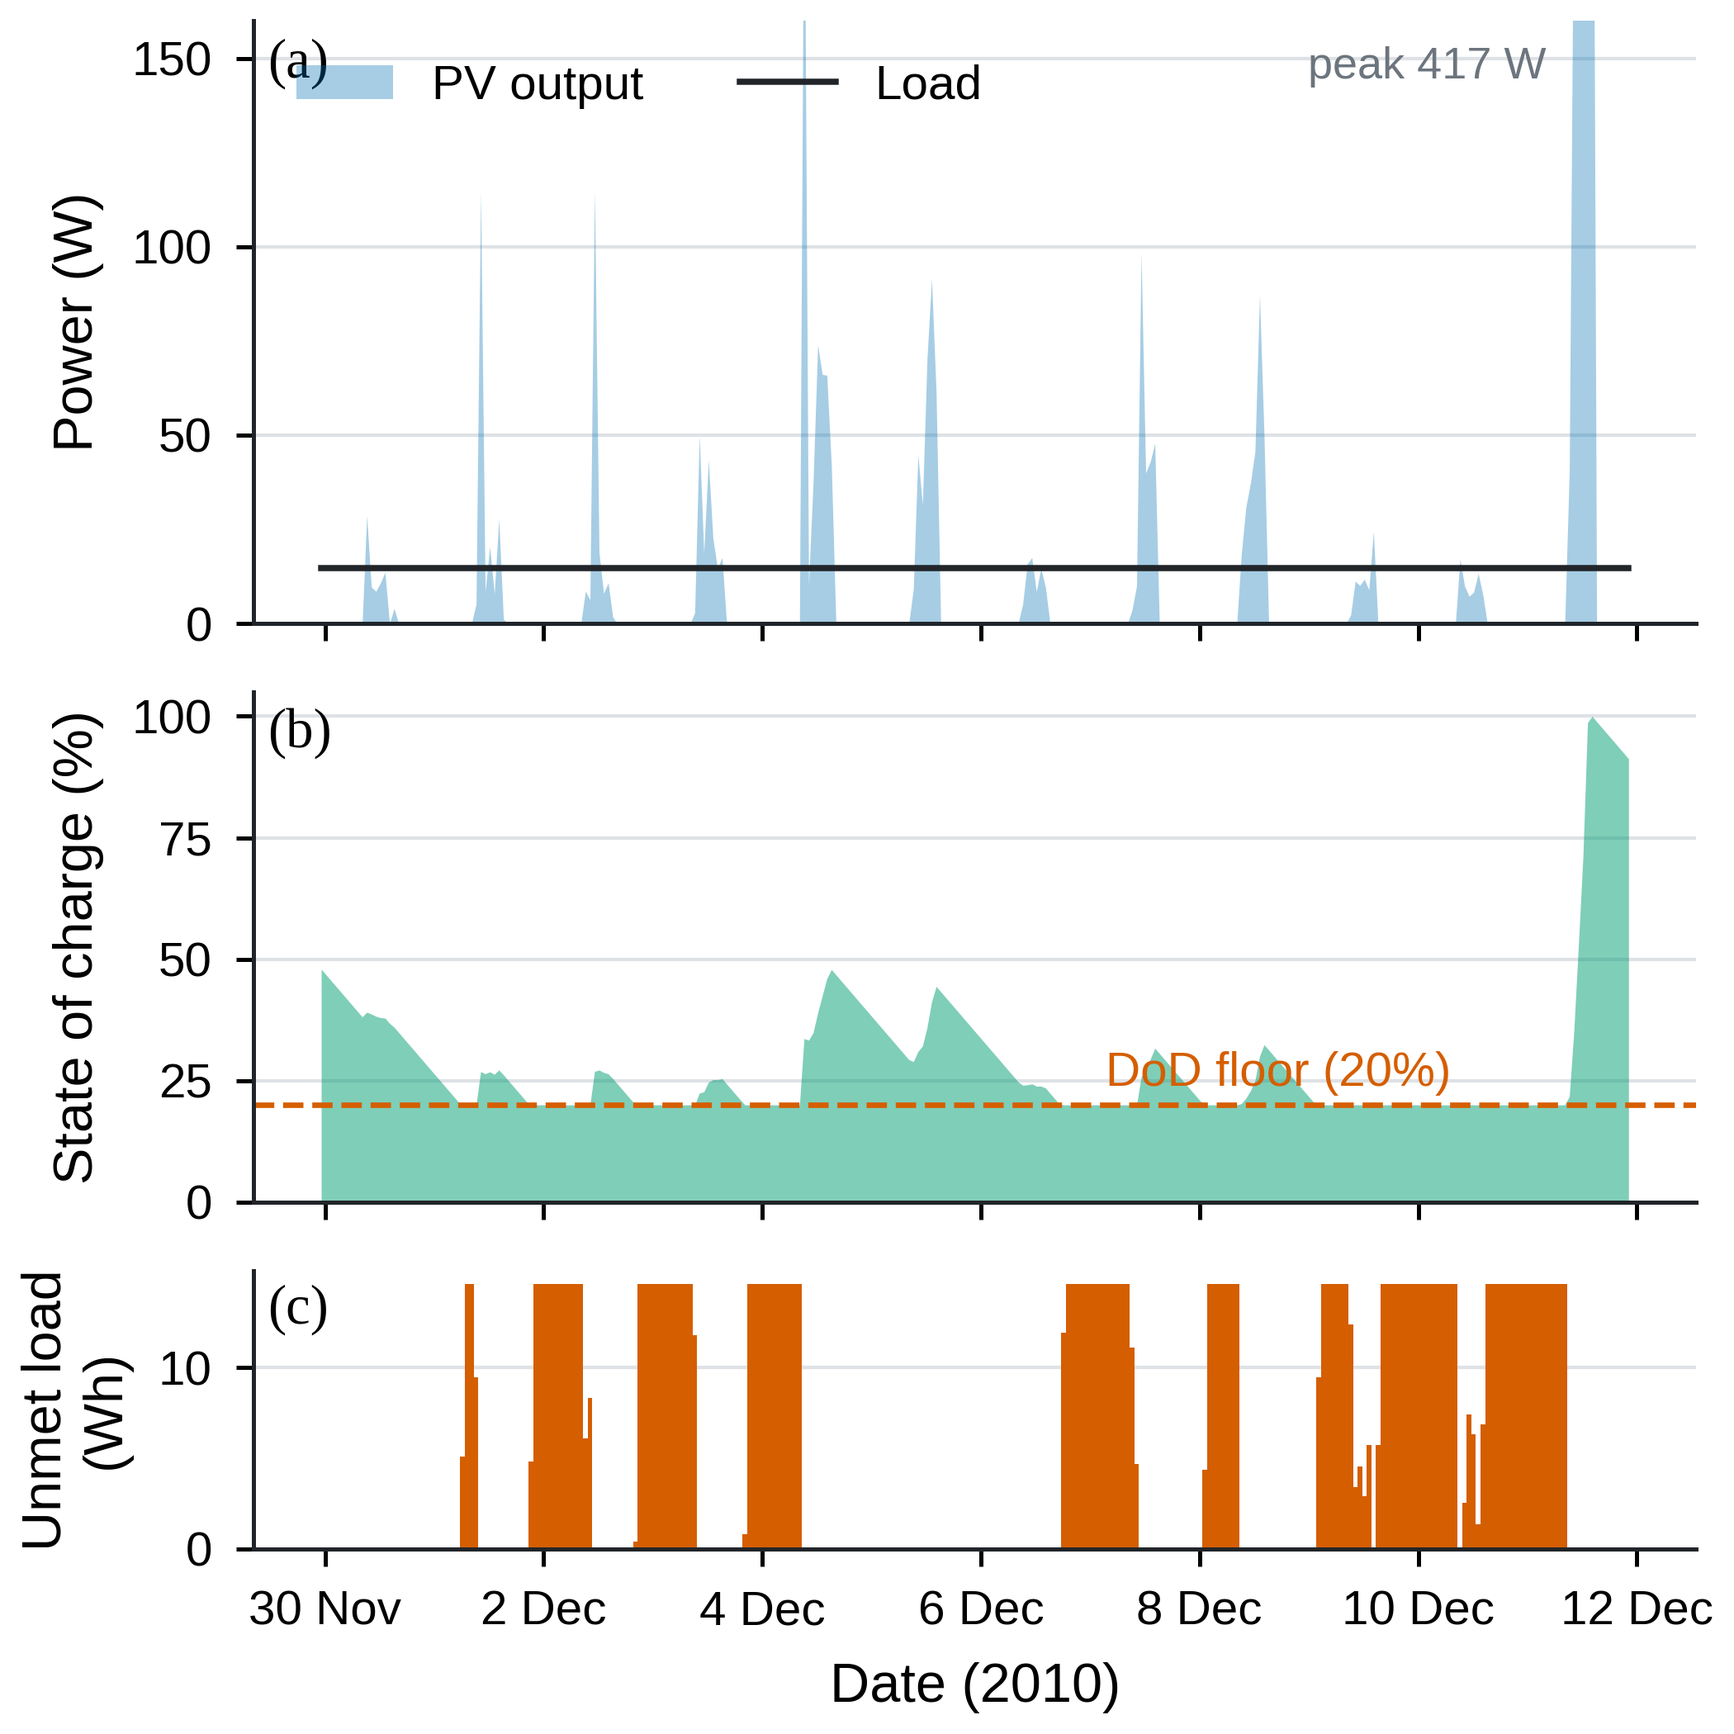
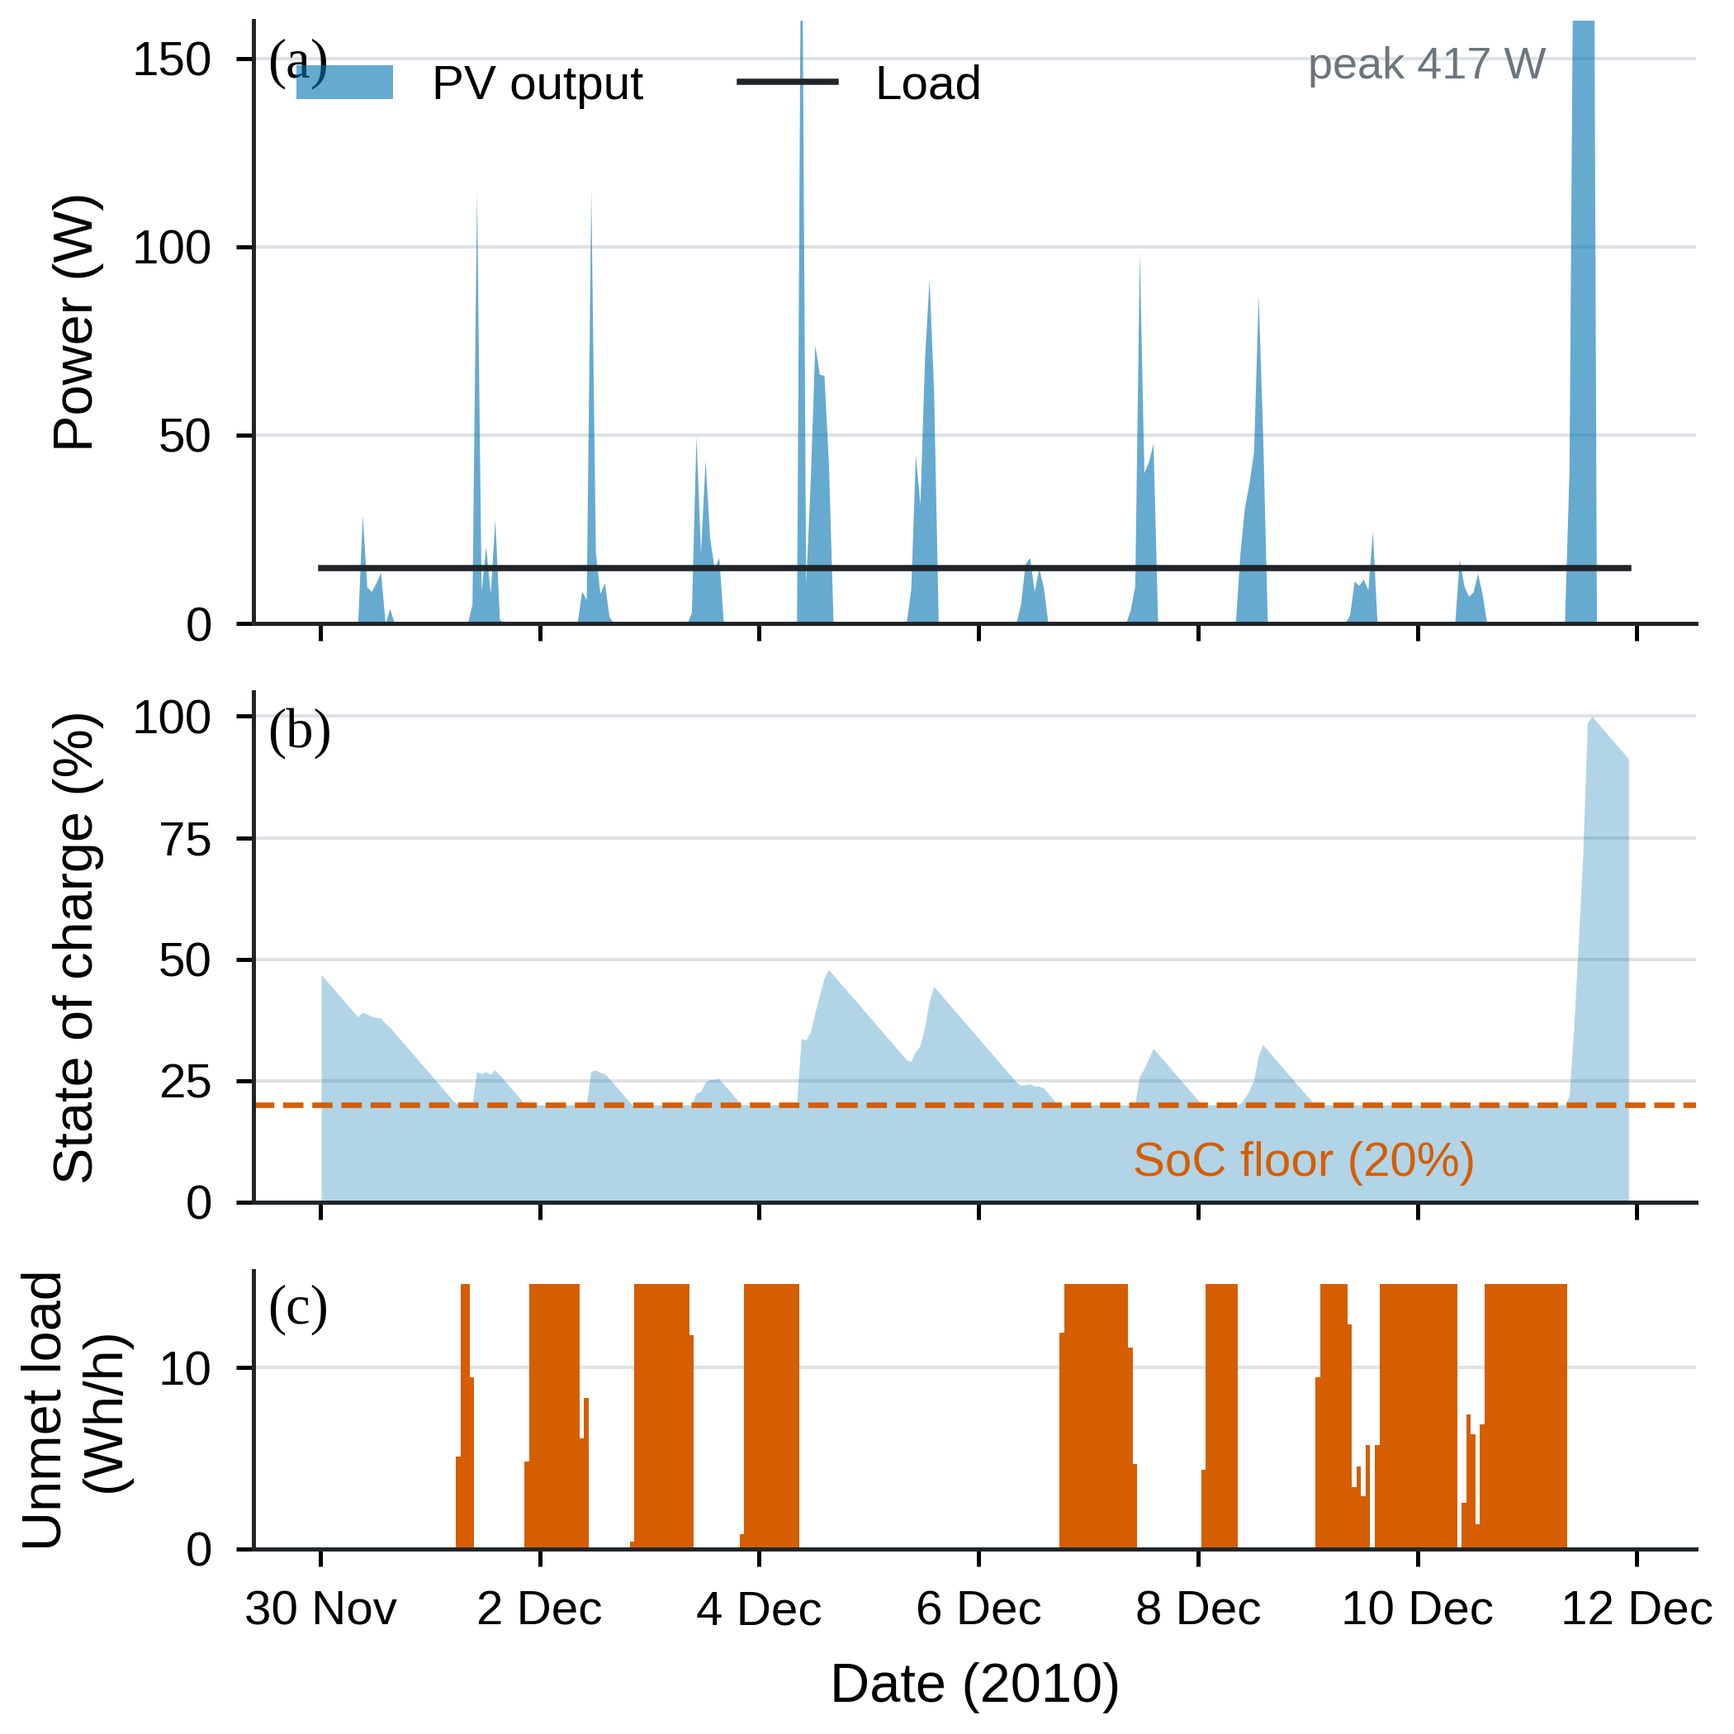
Figure fixes from the content audit (Figs 1-10)
- Fig. 2: wider source boxes so the bold diesel-set text no longer
  overflows; less vertical white space.
- Fig. 3: legend placed with loc='outside lower center' so it no longer
  sits under the panel labels (a)-(d).
- Fig. 4: colour-bar label shortened to 'Year-24 LOLP' (it was clipped);
  the grey region and log axis are described in the caption.
- Fig. 5: cells within 0.05 of the 1% threshold print two decimals;
  battery labels to two decimals as in Table IX.
- Fig. 6: axis runs from the day before the worst window (30 Nov-11 Dec
  2010); 'SoC floor (20%)' label moved into clear space; site colour
  used for both fills; unmet-load axis labelled per hour.
- Fig. 7: visit shares (48%, 82%) and fuel share printed on the bars;
  the two greys separated; A1 quoted to two decimals.
- Fig. 8: parity label no longer crosses the axis.
- Fig. 9: right tick kept inside the panel; deterministic ratio marked
  beside each Monte Carlo median.
- Fig. 10: contour labels get a dark stroke and are dropped where they
  would sit under the star; x-axis spans the full sweep domain.
- Fig. 1: thousands separator in the legend as in Table II.

Claude-Session: https://claude.ai/code/session_01L4xCUE7TTCC3Pum2vsmycQ

diff --git a/src/figures_paper.py b/src/figures_paper.py
@@ -93,7 +93,7 @@ def fig_ghi():
         ax.plot(months, m, ls=['-', '--', '-.', ':'][list(SITES).index(key)],
                 marker=['o', 's', '^', 'D'][list(SITES).index(key)],
                 color=SITE_C[site.name], lw=1.3, ms=3, mec='white', mew=0.4,
-                label=f'{site.name} ({annual_ghi_kwh_per_m2(df):.0f})')
+                label=f'{site.name} ({annual_ghi_kwh_per_m2(df):,.0f})')
     ax.set_xticks(months)
     ax.set_xticklabels(list('JFMAMJJASOND'))
     ax.set_xlabel('Month')
@@ -109,9 +109,9 @@ def fig_ghi():
 
 # ================================================================ Fig 2
 def fig_architecture():
-    fig, axs = plt.subplots(1, 2, figsize=(PAGE_W, 2.45), layout=None)
+    fig, axs = plt.subplots(1, 2, figsize=(PAGE_W, 2.15), layout=None)
     for ax in axs:
-        ax.set_xlim(0, 10); ax.set_ylim(-0.4, 4.6); ax.axis('off')
+        ax.set_xlim(0, 10); ax.set_ylim(-0.62, 4.05); ax.axis('off')
 
     def box(ax, x, y, w, h, text, fc='#f8f9fa', ec=INK, fs=7, bold=False):
         ax.add_patch(FancyBboxPatch((x, y), w, h,
@@ -131,39 +131,39 @@ def fig_architecture():
 
     # (a) Solar PV–battery
     ax = axs[0]
-    box(ax, 0.3, 2.6, 2.4, 1.3, 'PV array\n500–850 Wp\nlatitude tilt, south',
+    box(ax, 0.15, 2.6, 2.75, 1.3, 'PV array\n500–850 Wp\nlatitude tilt, south',
         fc='#e6f4ee', ec=SOLAR, bold=True)
     box(ax, 3.7, 2.6, 2.4, 1.3, 'MPPT charge\ncontroller\n(η ≈ 97%)')
     box(ax, 7.1, 2.6, 2.6, 1.3, 'DC load 14.64 W\nlogger · sensors ·\ncellular modem',
         fc='#f1f3f5')
     box(ax, 3.7, 0.5, 2.4, 1.3, 'LFP battery\n1.5–2.0 kWh\n80% DoD',
         fc='#e6f4ee', ec=SOLAR)
-    arrow(ax, 2.7, 3.25, 3.7, 3.25, 'DC')
+    arrow(ax, 2.9, 3.25, 3.7, 3.25, 'DC')
     arrow(ax, 6.1, 3.25, 7.1, 3.25, 'DC')
     arrow(ax, 4.9, 2.6, 4.9, 1.8)
     arrow(ax, 5.3, 1.8, 5.3, 2.6)
-    ax.text(0.3, 0.55, '2 site visits/yr\nno fuel, no oil', fontsize=7,
+    ax.text(0.15, 0.55, '2 site visits/yr\nno fuel, no oil', fontsize=7,
             color=SOLAR, va='bottom')
-    ax.text(5, -0.35, '(a)', fontsize=8, family=SERIF, ha='center', va='center')
+    ax.text(5, -0.45, '(a)', fontsize=8, family=SERIF, ha='center', va='center')
 
     # (b) Diesel A2
     ax = axs[1]
-    box(ax, 0.3, 2.6, 2.4, 1.3, '2 kVA-class diesel\nset (1.6 kW)\n0.9 h/day, 30% load',
+    box(ax, 0.15, 2.6, 2.75, 1.3, 'Diesel set\n2 kVA class, 1.6 kW\n0.9 h/day, 30% load',
         fc='#fdecec', ec=DIESEL_A2, bold=True)
     box(ax, 3.7, 2.6, 2.4, 1.3, 'Rectifier, charge\nand auto-start\ncontrollers')
     box(ax, 7.1, 2.6, 2.6, 1.3, 'DC load 14.64 W\nlogger · sensors ·\ncellular modem',
         fc='#f1f3f5')
     box(ax, 3.7, 0.5, 2.4, 1.3, 'Lead-acid buffer\n≈2.4 kWh, 4-yr life',
         fc='#fdecec', ec=DIESEL_A2)
-    box(ax, 0.3, 0.5, 2.4, 1.3, 'Fuel tank 200 L\n≈84 L/yr used')
-    arrow(ax, 2.7, 3.25, 3.7, 3.25, 'AC')
+    box(ax, 0.15, 0.5, 2.75, 1.3, 'Fuel tank 200 L\n≈84 L/yr used')
+    arrow(ax, 2.9, 3.25, 3.7, 3.25, 'AC')
     arrow(ax, 6.1, 3.25, 7.1, 3.25, 'DC')
     arrow(ax, 4.9, 2.6, 4.9, 1.8)
     arrow(ax, 5.3, 1.8, 5.3, 2.6)
-    arrow(ax, 1.5, 1.8, 1.5, 2.6)
+    arrow(ax, 1.525, 1.8, 1.525, 2.6)
     ax.text(7.1, 0.55, '12 site visits/yr\ninspection, oil, fuel',
             fontsize=7, color=DIESEL_A2, va='bottom')
-    ax.text(5, -0.35, '(b)', fontsize=8, family=SERIF, ha='center', va='center')
+    ax.text(5, -0.45, '(b)', fontsize=8, family=SERIF, ha='center', va='center')
     fig.subplots_adjust(wspace=0.08, left=0.01, right=0.99, top=0.99,
                         bottom=0.01)
     return _save(fig, 'fig02_architecture.png', tight=True)
@@ -197,13 +197,13 @@ def fig_validation():
         ax.text(0.03, 0.97,
                 f"same-input bias {l1['annual_nmbe_pct']:+.1f}%\nTMY bias {l2['annual_bias_vs_pvgis_mean_pct']:+.1f}%",
                 transform=ax.transAxes, va='top', ha='left', fontsize=7)
-        _panel_below(ax, f'({chr(97 + i)})', y=-0.24)
+        _panel_below(ax, f'({chr(97 + i)})', y=-0.17)
     axs[0].set_ylabel('Monthly yield (kWh/kWp)')
     handles = [mpl.patches.Patch(color=GREY, alpha=0.18, label='PVGIS 2005–2020 range'),
                Line2D([], [], color=INK, lw=1.2, label='PVGIS sixteen-year mean'),
                Line2D([], [], color=GREY, lw=1.1, ls='--', label='This chain, PVGIS inputs (site colour)'),
                Line2D([], [], color=GREY, lw=0, marker='o', ms=3.2, label='This chain, TMY (site colour)')]
-    fig.legend(handles=handles, loc='lower center', ncol=4, bbox_to_anchor=(0.5, -0.06),
+    fig.legend(handles=handles, loc='outside lower center', ncol=4,
                handlelength=1.6, columnspacing=1.4)
     return _save(fig, 'fig03_validation.png', tight=True)
 
@@ -232,8 +232,10 @@ def fig_multiyear():
             for j in range(len(years)):
                 v = Z[i, j]
                 bold = v > 1.0
-                ax.text(j + 0.5, i + 0.5, f'{v:.1f}' if v >= 0.05 else '0',
-                        ha='center', va='center', fontsize=6.3,
+                near = 0.95 <= v < 1.05          # knife-edge cells: show 2 dp
+                txt = f'{v:.2f}' if near else (f'{v:.1f}' if v >= 0.05 else '0')
+                ax.text(j + 0.5, i + 0.5, txt,
+                        ha='center', va='center', fontsize=5.6 if near else 6.3,
                         fontweight='bold' if bold else 'normal',
                         color='white' if v > 2.0 else INK)
                 if bold:
@@ -243,7 +245,7 @@ def fig_multiyear():
         ax.set_xticklabels([str(y)[2:] for y in years], fontsize=6.5)
         ax.set_yticks(np.arange(len(sites)) + 0.5)
         ax.set_yticklabels([f"{st.name}\n{M['sites'][st.name][dsg]['pv_wp']:.0f} Wp, "
-                            f"{M['sites'][st.name][dsg]['battery_kwh']:g} kWh"
+                            f"{M['sites'][st.name][dsg]['battery_kwh']:.2f} kWh"
                             for st in sites], fontsize=6.3)
         ax.tick_params(length=0)
         for sp in ax.spines.values():
@@ -251,7 +253,7 @@ def fig_multiyear():
         ax.set_title({'study': "This study's chain", 'pvgis': "PVGIS chain"}[model]
                      + {'tmy_design': ', step-1 designs', 'final_design': ', final designs'}[dsg],
                      fontsize=7.5, pad=2)
-        _panel_below(ax, f'({lab})', y=-0.20 if dsg == 'tmy_design' else -0.42)
+        _panel_below(ax, f'({lab})', y=-0.20 if dsg == 'tmy_design' else -0.36)
     for ax in axs[1]:
         ax.set_xlabel('Year (2005–2020)')
     cb = fig.colorbar(mesh, ax=axs, pad=0.012, fraction=0.025)
@@ -283,12 +285,12 @@ def fig_worst_event(site_key='edinburgh', days=12):
                       'soc_frac': soc, 'unmet_wh': unmet}, index=idx)
     ww = fin['by_model']['study']['worst_window']
     end = pd.Timestamp(ww['end']) + pd.Timedelta(hours=23)
-    start = end - pd.Timedelta(days=days)
+    start = pd.Timestamp(ww['start']) - pd.Timedelta(days=days - 11)   # one-day lead-in
     w = h.loc[start:end]
     fig, axs = plt.subplots(3, 1, figsize=(COL_W, 3.5), sharex=True,
                             gridspec_kw={'height_ratios': [1.3, 1.1, 0.6]})
     axs[0].fill_between(w.index, 0, w['pv_wh'], color=SITE_C[site.name],
-                        alpha=0.35, lw=0, label='PV output')
+                        alpha=0.6, lw=0, label='PV output')
     axs[0].plot(w.index, w['load_wh'], color=INK, lw=0.9, label='Load')
     axs[0].set_ylabel('Power (W)')
     ymax = min(160.0, float(w['pv_wh'].max()) * 1.05)
@@ -302,18 +304,20 @@ def fig_worst_event(site_key='edinburgh', days=12):
     axs[0].text(0.01, 0.97, '(a)', transform=axs[0].transAxes, va='top', fontsize=8, family=SERIF)
     axs[1].text(0.01, 0.97, '(b)', transform=axs[1].transAxes, va='top', fontsize=8, family=SERIF)
     axs[2].text(0.01, 0.95, '(c)', transform=axs[2].transAxes, va='top', fontsize=8, family=SERIF)
-    axs[1].fill_between(w.index, 0, w['soc_frac'] * 100, color=SOLAR, alpha=0.5, lw=0)
+    axs[1].fill_between(w.index, 0, w['soc_frac'] * 100, color=SITE_C[site.name],
+                        alpha=0.3, lw=0)
     axs[1].axhline(20, color=DIESEL_A2, ls='--', lw=0.8)
-    axs[1].text(w.index[-40], 24, 'DoD floor (20%)', fontsize=7, color=DIESEL_A2, ha='right')
+    axs[1].text(w.index[len(w) * 3 // 4], 8, 'SoC floor (20%)', fontsize=7,
+                color=DIESEL_A2, ha='center', va='center')
     axs[1].set_ylabel('State of charge (%)'); axs[1].set_ylim(0, 105)
     axs[2].bar(w.index, w['unmet_wh'], width=1 / 24, color=DIESEL_A2, lw=0)
-    axs[2].set_ylabel('Unmet load\n(Wh)')
+    axs[2].set_ylabel('Unmet load\n(Wh/h)')
     axs[2].xaxis.set_major_formatter(mdates.DateFormatter('%-d %b'))
     axs[2].xaxis.set_major_locator(mdates.DayLocator(interval=2))
     for ax in axs:
         ax.yaxis.grid(True); ax.set_axisbelow(True)
     axs[2].set_xlabel(f'Date ({start.year})')
-    return _save(fig, 'fig06_worst_event.png'), (start, end, wp, kwh)
+    return _save(fig, 'fig06_worst_event.png'), (start, end, wp, kwh, ww)
 
 
 # ================================================================ Fig 4
@@ -343,8 +347,8 @@ def fig_sizing_landscape():
         ax.set_yticklabels(['1', '2', '5', '10'])
         ax.set_ylim(0.7, 11)
     axs[0].set_ylabel('Battery capacity (kWh)')
-    cb = fig.colorbar(mesh, ax=axs, pad=0.015, fraction=0.03)
-    cb.set_label('LOLP in governing year (grey: below 0.01%)', fontsize=7)
+    cb = fig.colorbar(mesh, ax=axs, pad=0.02, fraction=0.035)
+    cb.set_label('Year-24 LOLP', fontsize=7)
     cb.set_ticks([-4, -3, -2, -1, 0])
     cb.set_ticklabels(['0.01%', '0.1%', '1%', '10%', '100%'])
     cb.ax.tick_params(labelsize=7)
@@ -381,7 +385,7 @@ def fig_lcoe_and_breakdown():
             fontsize=7, color=DIESEL_A2)
     ax.text(len(sites) - 0.55, d2_8 + 0.5, f'Diesel A2, 8%: £{d2_8:.2f}/kWh', ha='right',
             va='bottom', fontsize=7, color=DIESEL_A2)
-    ax.text(len(sites) - 0.55, 26.6, f'Diesel A1, 5%: £{d1:.1f}/kWh (off scale)',
+    ax.text(len(sites) - 0.55, 26.6, f'Diesel A1, 5%: £{d1:.2f}/kWh (off scale)',
             ha='right', va='top', fontsize=7, color=DIESEL_A1)
     ax.set_ylim(0, 27.5)
     ax.set_xticks(x); ax.set_xticklabels(sites)
@@ -401,13 +405,22 @@ def fig_lcoe_and_breakdown():
         vis = d.get('Site visits', 0.0)
         return [cap, rep, om, fuel, vis]
     ps = parts(solar['Southampton']); pd2 = parts(a2)
-    colours = ['#495057', '#adb5bd', '#ced4da', '#E69F00', '#5b7fa6']
+    colours = ['#495057', '#868e96', '#dee2e6', '#E69F00', '#5b7fa6']
     for j, (label, vals) in enumerate([('Solar–battery\n(Southampton)', ps),
                                        ('Diesel A2', pd2)]):
-        bottom = 0
+        bottom = 0; total = sum(vals)
         for c, v, name in zip(colours, vals, cats):
             ax2.barh(j, v / 1000, left=bottom / 1000, color=c, height=0.7,
                      label=name if j == 0 else None)
+            if name == 'Site visits':          # the share the comparison rests on
+                share = f'{v / total * 100:.0f}%'
+                ax2.text((bottom + v / 2) / 1000, j, share if j == 0 else f'visits {share}',
+                         ha='center', va='center', fontsize=7, color='white')
+            if name == 'Fuel' and j == 1:
+                ax2.annotate(f'fuel {v / total * 100:.1f}%', xy=((bottom + v / 2) / 1000, j - 0.36),
+                             xytext=((bottom + v / 2) / 1000 + 3.5, j - 0.62),
+                             fontsize=6.5, ha='left', va='center', color=INK,
+                             arrowprops=dict(arrowstyle='-', lw=0.5, color=INK))
             bottom += v
         ax2.text(bottom / 1000 + 0.6, j, f'£{bottom/1000:.1f}k', va='center',
                  fontsize=7)
@@ -455,7 +468,7 @@ def fig_tornado():
                     va='center', ha='left', fontsize=7)
     ax.axvline(c, color=INK, lw=0.7, ls='--')
     ax.axvline(1.0, color=GREY, lw=0.7, ls=':')
-    ax.text(1.0, len(td) - 0.3, 'parity (ratio = 1)', fontsize=7, color=GREY, ha='center')
+    ax.text(1.06, len(td) - 0.3, 'parity (ratio = 1)', fontsize=7, color=GREY, ha='left')
     ax.text(c, len(td) - 0.3, f'central {c:.2f}', fontsize=7, ha='center')
     ax.set_yticks(y); ax.set_yticklabels([order[p] for p in td['parameter']],
                                          fontsize=7)
@@ -489,23 +502,31 @@ def fig_monte_carlo(n=5000):
 
     ax = axs[1]
     sites = list(SITE_DESIGN); yb = np.arange(len(sites))
-    for k, (mc, mk) in enumerate([(mc5, 'o'), (mc8, 's')]):
+    a2 = build_diesel_cashflows(DieselArchitecture2(), fuel_price_ppl=76.02)
+    for k, (mc, mk, rate) in enumerate([(mc5, 'o', 0.05), (mc8, 's', 0.08)]):
         off = -0.17 + 0.34 * k
         for i, s in enumerate(sites):
             r = mc['diesel_lcoe'] / mc[f'solar_lcoe_{s}']
             p10, p50, p90 = np.percentile(r, [10, 50, 90])
             ax.plot([p10, p90], [i + off] * 2, color=INK, lw=1.0)
+            wp, kwh = SITE_DESIGN[s]
+            det = a2.lcoe_gbp_per_kwh(rate) / build_pv_battery_cashflows(
+                pv_capex_gbp_per_wp=4.5, pv_size_wp=wp, battery_capex_gbp_per_kwh=700,
+                battery_kwh=kwh, annual_energy_delivered_kwh=128.2).lcoe_gbp_per_kwh(rate)
+            ax.plot(det, i + off, '|', color=INK, ms=7, mew=1.0)      # deterministic ratio
             ax.plot(p50, i + off, mk, color=SITE_C[s], ms=5.5, mec=INK, mew=0.5)
     ax.axvline(1, color=GREY, lw=0.7, ls=':')
     ax.text(1.08, -0.45, 'parity', fontsize=7, color=GREY, ha='left')
     ax.set_yticks(yb); ax.set_yticklabels(sites); ax.invert_yaxis()
-    ax.set_xlim(0.5, 5.0)
+    ax.set_xlim(0.5, 4.6); ax.set_xticks([1, 2, 3, 4])
     ax.set_xlabel('Diesel-to-solar LCOE ratio (P10, P50, P90)')
     ax.legend(handles=[Line2D([], [], marker='o', ls='', color='#adb5bd',
                               mec=INK, label='5%'),
                        Line2D([], [], marker='s', ls='', color='#adb5bd',
-                              mec=INK, label='8%')],
-              loc='lower left')
+                              mec=INK, label='8%'),
+                       Line2D([], [], marker='|', ls='', color=INK, mew=1.0,
+                              label='deterministic')],
+              loc='lower left', handletextpad=0.5)
     ax.xaxis.grid(True); ax.set_axisbelow(True)
     _panel_below(ax, '(b)', y=-0.30)
     fig.subplots_adjust(wspace=0.45, bottom=0.30, left=0.08, right=0.99, top=0.97)
@@ -524,11 +545,18 @@ def fig_sweep2d():
         cs = ax.contour(batt, RATES * 100, m,
                         levels=[2.25, 2.5, 2.75, 3.0, 3.25, 3.5, 3.75, 4.0],
                         colors='white', linewidths=0.6)
-        ax.clabel(cs, fontsize=7, fmt='%.2f')
+        import matplotlib.patheffects as pe
+        labels = ax.clabel(cs, fontsize=7, fmt='%.2f')
+        for lab in labels:
+            lab.set_path_effects([pe.withStroke(linewidth=1.6, foreground=INK)])
+            lx, ly = lab.get_position()
+            if abs(lx - 700) < 130 and abs(ly - 5) < 1.1:     # would sit under the star
+                lab.set_visible(False)
         ax.plot(700, 5, marker='*', ms=9, color='white', mec=INK, mew=0.6)
         ax.set_title(f'{site}', fontsize=8, pad=3)
         ax.set_xlabel('Battery capital cost (£/kWh)')
         ax.set_xticks([400, 800, 1200])
+        ax.set_xlim(batt.min(), batt.max())
         _panel_below(ax, f'({chr(97 + i)})', y=-0.30)
     axs[0].set_ylabel('Discount rate (%)')
     cb = fig.colorbar(mesh, ax=axs, pad=0.015, fraction=0.03)
